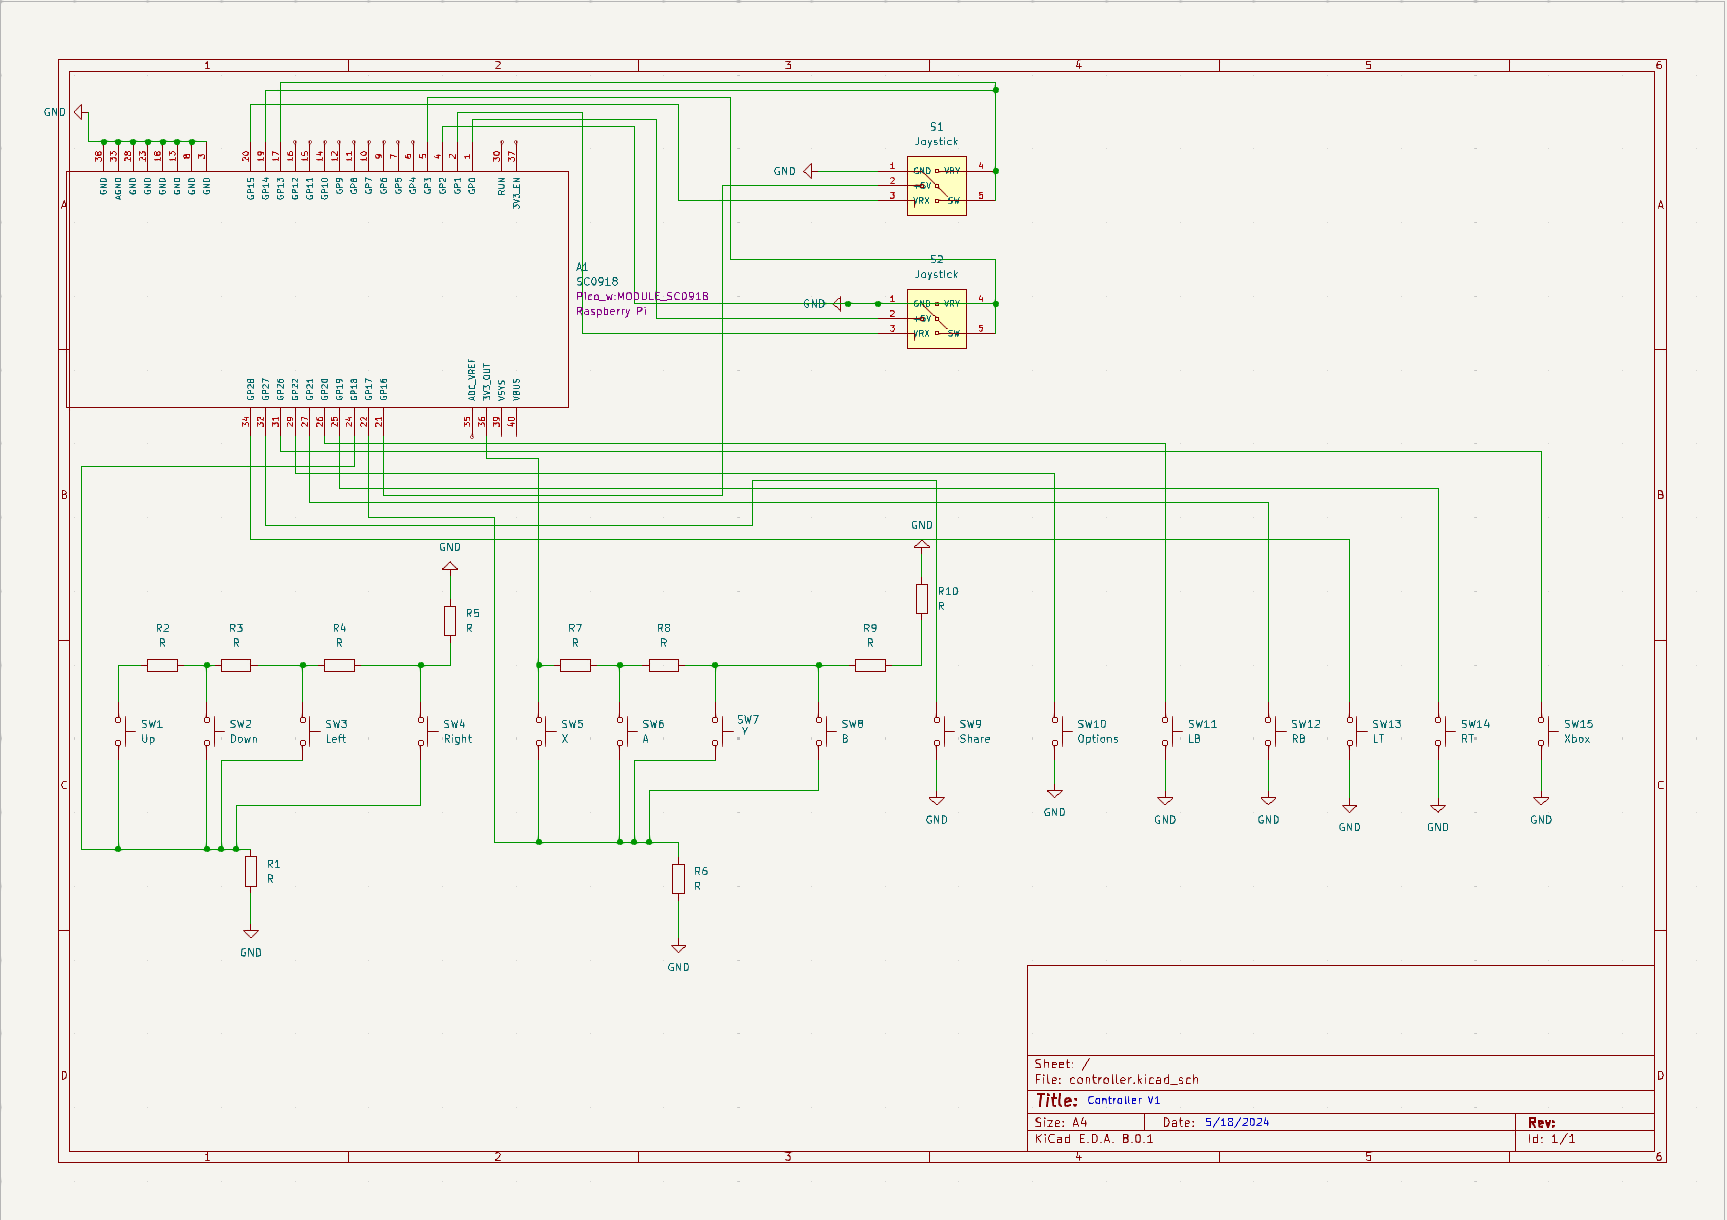
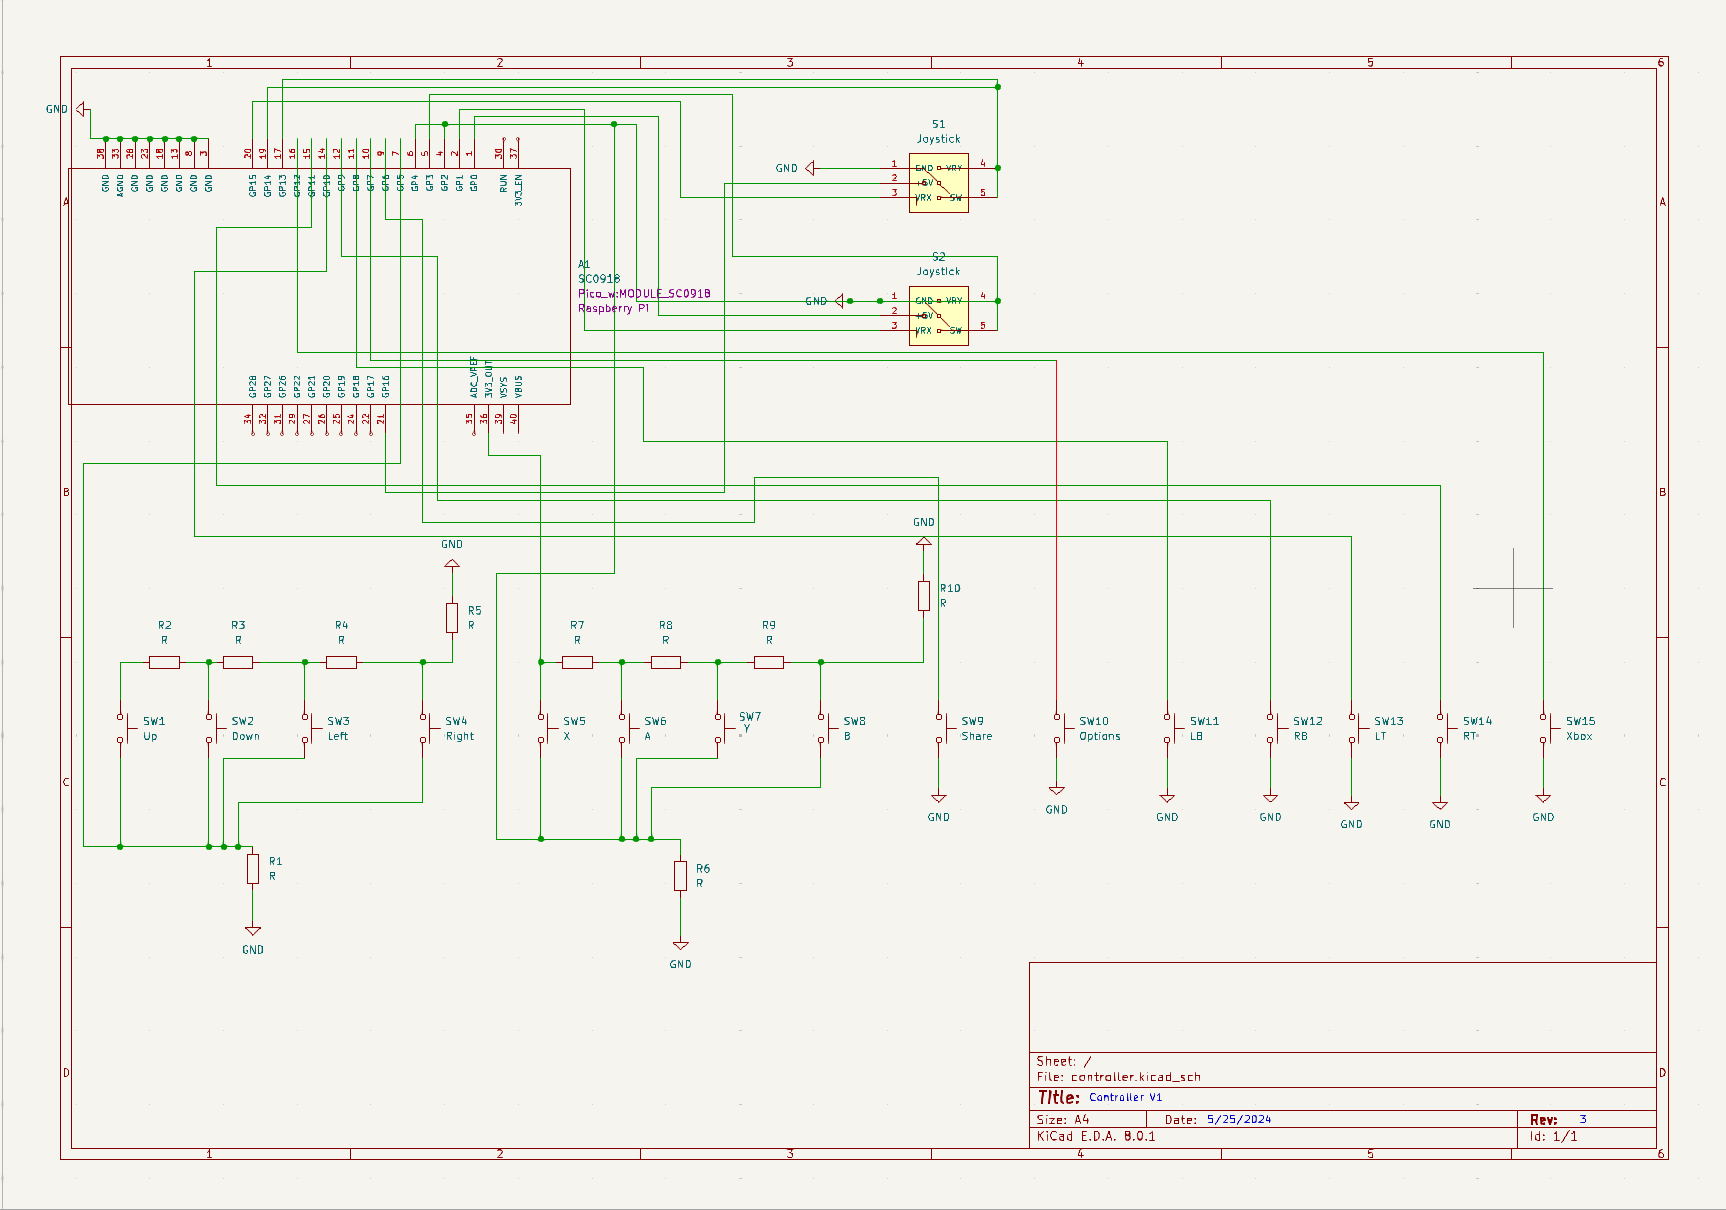
Added more images of the hardware (#426)
* Added project hardware schematic

* Delete docs/project/2024/robert.leonte directory

* Add files via upload

* Update index.md

diff --git a/docs/project/2024/robert.leonte/index.md b/docs/project/2024/robert.leonte/index.md
@@ -25,10 +25,11 @@ I have an Xbox One X console with two controllers. A friend of mine borrowed one
 <!-- write every week your progress here -->
 
 ### Week 6 - 12 May
-
+Kicad schematic complete. Waiting on parts.
 ### Week 7 - 19 May
-
+Made three versions of the hardware.
 ### Week 20 - 26 May
+Final version of the hardware completed. Started working on the software. Lots of issues with embassy.
 
 ## Hardware
 
